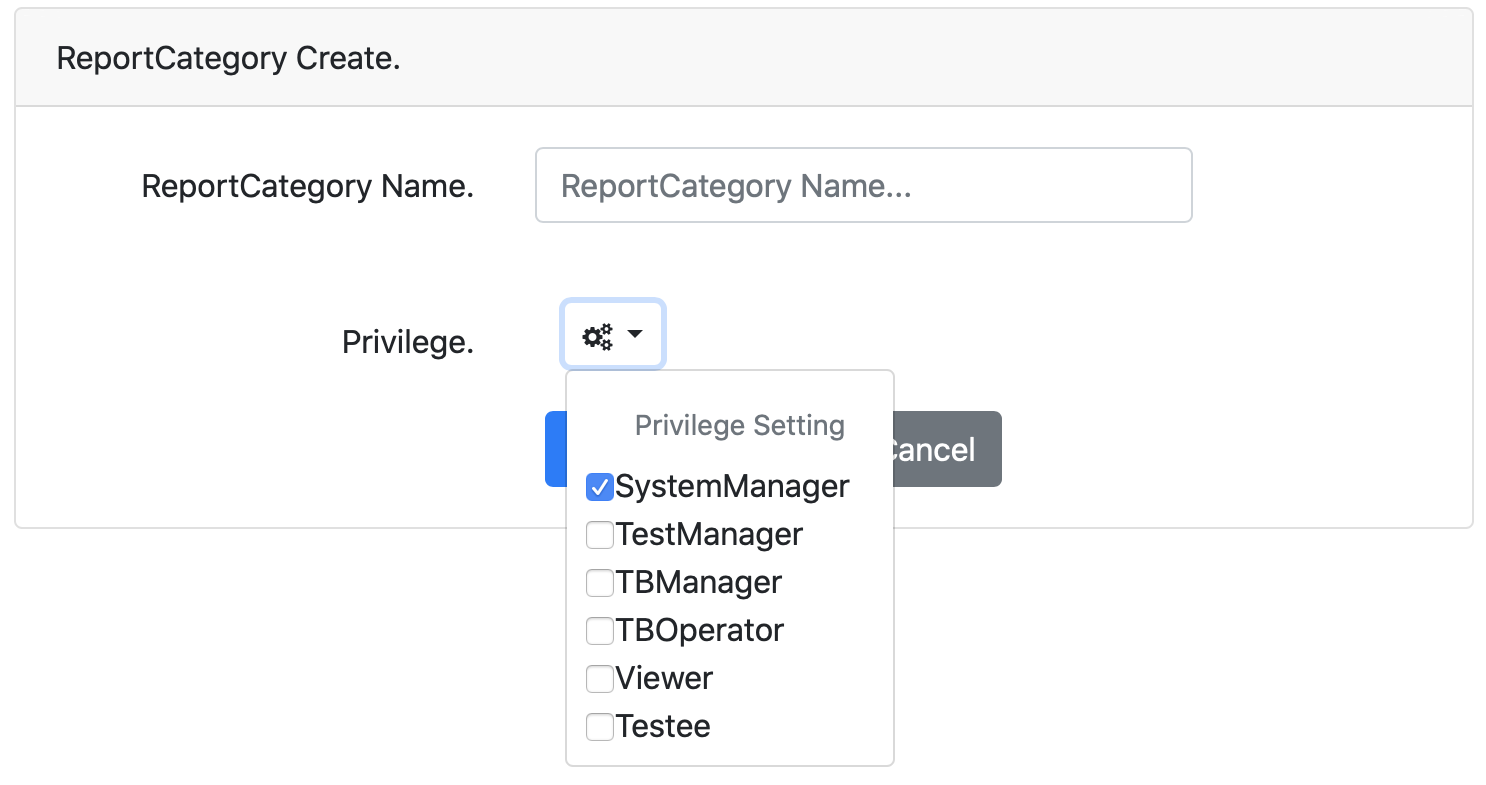
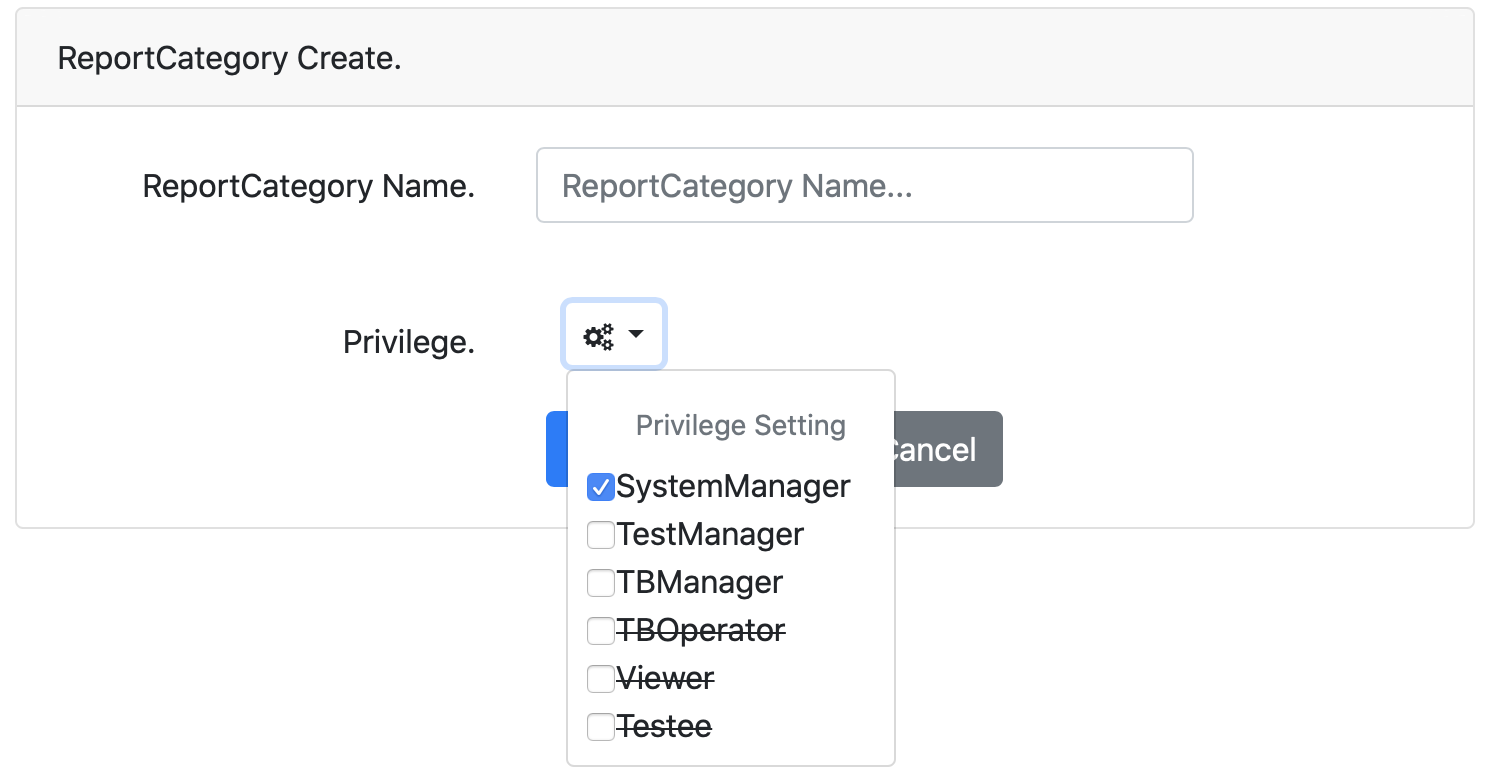
Mainly, modified the UI of some pages to keep the style consistency.
Finished the Operation Manual of System Manager.

diff --git a/templates/SystemDocument/OperationManual/OM_Report.html b/templates/SystemDocument/OperationManual/OM_Report.html
@@ -1,10 +1,94 @@
-<!DOCTYPE html>
-<html lang="en">
-<head>
-    <meta charset="UTF-8">
-    <title>Title</title>
-</head>
-<body>
+{% extends 'OperationManual_base.html' %}
 
-</body>
-</html>
+{% load static %}
+
+{% block content %}
+    <main id="om-content">
+        <div class="container">
+            <div class="row justify-content-center">
+                <div class="col-md-12 text-left">
+                    <h1>問題回報系統</h1>
+                    <p>
+                        <ul>
+                            <li>問題回報是為了讓使用者與管理員能有順暢的問題反映管道。</li>
+                            <li>使用者在使用本系統時所遇到的所有問題皆可透過問題回報系統來向管理人員或是開發人員來做反應，以達到更好的系統體驗。</li>
+                        </ul>
+                    </p>
+
+                    <h3>使用者問題回報</h3>
+                    <img src="{% static '/images/om/om-report01.png' %}" width="30%">
+                    <img src="{% static '/images/om/om-report02.png' %}" width="40%">
+                    <p>
+                        <ul>
+                            <li>可由<a href="{% url 'OM_User' %}">一般使用者</a>功能表或是進入個人資料頁面，左方導覽列的「Report」頁面中的「新增回報」按鈕來進行問題回報。</li>
+                        </ul>
+                    </p>
+
+                    <h3>問題回報</h3>
+                    <img src="{% static '/images/om/om-report03.png' %}" width="40%">
+                    <p>
+                        <ul>
+                            <li>選擇「Report Category.」及填寫「Supplement Note.」後即可送出。</li>
+                            <li>完成回報後，使用者可在左方導覽列的「Report」去查看自己所做的所有問題回報。</li>
+                        </ul>
+                    </p>
+                    <p class="mark">
+                        <strong>Tip.</strong><br>
+                        １.Report Category. 只做了大致上的歸類，若當中沒有符合您所遇到的狀況類別，請選擇「其他」。<br>
+                        ２.Supplement Note. 為補充說明，請多加敘述您在操作本系統時所遇到的問題，讓管理員能更有效地為您解決問題。<br>
+                    </p>
+
+                    <hr>
+
+                    <h1>問題回報處理</h1>
+                    <p>
+                        <ul>
+                            <li>經由使用者對於所遇到問題所做的問題回報，應有相關負責的權限來進行處理，故有設計問題類別的責任歸屬。
+                                請參閱<a href="{% url 'OM_SystemManager' %}">系統管理員</a>的<code>ReportCategory List</code>，其中有對於問題類別進一步的相關說明。</li>
+                        </ul>
+                    </p>
+                    <img src="{% static '/images/om/om-report04.png' %}" width="20%">
+                    <p>
+                        <ul>
+                            <li>若有使用者進行問題回報，而該回報類別屬於某一個權限的管理員，則會有 <label class="notification-badge">1</label> 的標示，
+                                用來提醒該管理員有多少個問題回報尚未讀取。</li>
+                        </ul>
+                    </p>
+                    <img src="{% static '/images/om/om-report05.png' %}" width="60%">
+                    <p>
+                        <ul>
+                            <li>若尚未讀取該問題回報，該欄位會顏色相對較深，若已讀則較淡。</li>
+                            <li>點擊該欄位則可檢視及回覆使用者所提出的問題。</li>
+                        </ul>
+                    </p>
+                    <img src="{% static '/images/om/om-report06.png' %}" width="60%">
+                    <p>
+                        <ul>
+                            <li>左邊區塊是顯示使用者問題回報的相關資訊</li>
+                            <li>右邊區塊是管理員與使用者的對話框，在下方輸入框輸入所要回覆的內容，點擊「回覆」按鈕即可回覆使用者。</li>
+                            <img src="{% static '/images/om/om-report07.png' %}" width="60%">
+                            <li>若管理員已回覆使用者的問題回報，則在使用者的頁面會看到「Report」的旁邊有 <label class="notification-badge">1</label> 的標示；而已回覆的問題回報也會與其他欄位有不同的顏色區隔。</li>
+                            <li>若管理員認為本次的問題回報是簡已處理完成，即可點擊「關閉」按鈕來結束本次的問題回報。本次回報也會更改狀態為<code>Solved</code>。</li>
+                            <img src="{% static '/images/om/om-report08.png' %}" width="60%">
+                            <li>若本次問題回報被管理員「Close」的話，代表本次回報已處理完成，使用者也無法繼續回覆。</li>
+                        </ul>
+                    </p>
+
+
+
+                    <hr class="featurette-divider">
+                </div>
+            </div>
+        </div>
+    </main>
+    <style>
+        .notification-badge{
+            width: 25px;
+            height: 25px;
+            background-color: red;
+            border-radius: 24px;
+            color: white;
+            text-align: center;
+        }
+    </style>
+{% endblock %}

diff --git a/templates/SystemDocument/OperationManual/OM_SystemManager.html b/templates/SystemDocument/OperationManual/OM_SystemManager.html
@@ -27,7 +27,7 @@
                     <img src="{% static '/images/om/om-sm02.png' %}" width="60%">
                     <p>
                         <ul>
-                            <li>表格內主要顯示使用者的「帳號」、「姓名」、「身份」、「權限」、「最近登入時間」。</li>
+                            <li>表格內主要顯示使用者的「Account.」、「Name.」、「Identity.」、「Privilege.」、「Last Login.」。</li>
                             <li>
                                 身份區分為：
                                 <ul>
@@ -47,7 +47,7 @@
                                     <li><a href="{% url 'OM_Testee'%}">Testee</a>：受測者</li>
                                 </ul>
                             </li>
-                            <li>「搜尋」功能列：可進行「學號/姓名」、「科系」、「中隊」、「年班」的條件式搜尋。</li>
+                            <li>「搜尋」功能列：可進行「Account./Name.」、「Department.」、「Squadron.」、「Grade.」的條件式搜尋。</li>
                             <li>「新增使用者」：可進行使用者的新增。</li>
                         </ul>
                     </p>
@@ -66,8 +66,8 @@
                     <p>
                         <ul>
                             <li>此圖以身份為「Student」的使用者為例，若身份為非「Student」之使用者，則不會有右邊學生基本資料可進行編輯。</li>
-                            <li>系統管理員可編輯使用者的「帳號」、「姓名」、「Email」、「性別」、「身份」、「權限」。</li>
-                            <li>若該使用者擁有「Student」，即可編輯「學號」、「科系」、「中隊」、「年班」。</li>
+                            <li>系統管理員可編輯使用者的「Register ID.」、「Name.」、「Email.」、「Gender.」、「Identity.」、「Privilege.」。</li>
+                            <li>若該使用者擁有「Student」，即可編輯「Student ID.」、「Department.」、「Squadron.」、「Grade.」。</li>
                         </ul>
                     </p>
 
@@ -75,8 +75,8 @@
                     <img src="{% static '/images/om/om-sm03.png' %}" width="70%">
                     <p>
                         <ul>
-                            <li>左方表格進行使用者基本資料的填寫。需輸入「帳號」、選擇「身份」及權限設置。</li>
-                            <li>若「身份」選擇<code>Student</code>，則右邊的表格需填寫學生相關資料。需輸入「學號」，其餘「科系」、「中隊」、「年班」，可選擇填寫或不填寫。</li>
+                            <li>左方表格進行使用者基本資料的填寫。需輸入「Reg ID.」、選擇「Identity.」及權限設置。</li>
+                            <li>若「身份」選擇<code>Student</code>，則右邊的表格需填寫學生相關資料。需輸入「Student ID.」，其餘「Department.」、「Squadron.」、「Grade.」，可選擇填寫或不填寫。</li>
                             <li>欲一次性新增多個使用者可點擊「<code>Multiple Creation？</code>」的連結。</li>
                         </ul>
                     </p>
@@ -186,6 +186,7 @@
                     <p>
                         <ul>
                             <li>更改所要編輯的問題類別名稱及所負責的單位後即可提交更改。</li>
+                            <li>無論在「新增問題類別」或是「編輯問題類別」，除<a href="{% url 'OM_SystemManager' %}">系統管理員</a>、<a href="{% url 'OM_TestManager' %}">考試管理員</a>、<a href="{% url 'OM_TBManager' %}">題庫管理員</a>外其餘權限皆不得設置為問題類別的負責單位。</li>
                             <li style="color: red">若無必要性，不建議做更改。</li>
                         </ul>
                     </p>
@@ -205,16 +206,4 @@
             </div>
         </div>
     </main>
-    <style>
-        .mark{
-            background-color: rgb(248, 248, 248);
-
-            border-left-style: solid;
-            border-left-width: 4px;
-            border-left-color: rgb(200, 200, 200);
-            opacity: 0.6;
-
-            padding-left: 10px;
-        }
-    </style>
 {% endblock %}

diff --git a/templates/SystemDocument/OperationManual/OM_User.html b/templates/SystemDocument/OperationManual/OM_User.html
@@ -48,8 +48,8 @@
                     <h3>檢視個人資料</h3>
                     <p>
                         <ul>
-                            <li>於一般使用者功能表點擊「User Profile」，可以查看個人資料，包括：帳號、姓名、Email、性別、身分、權限。</li>
-                            <li>若使用者身份為「Student」，則會多顯示學生基本資料，其中有：學號、科系、中隊、年班。</li>
+                            <li>於一般使用者功能表點擊「User Profile」，可以查看個人資料，包括：「Reg ID.」、「Name.」、「Email.」、「Gender.」、「Identity.」、「Privilege.」。</li>
+                            <li>若使用者身份為「Student」，則會多顯示學生基本資料，其中有：「Student ID.」、「Department.」、「Squadron.」、「Grade.」。</li>
                             <img src="{% static '/images/om/om-user04.png' %}" width="45%" height="45%">
                             <img src="{% static '/images/om/om-user05.png' %}" width="45%" height="45%">
                         </ul>
@@ -60,8 +60,8 @@
                     <h3>更新個人資料</h3>
                     <p>
                         <ul>
-                            <li>於一般使用者功能表點擊「Profile Update」，可以個人資料的更改，可更改項目有：姓名、性別、個人簡介及個人頭像。</li>
-                            <li>若使用者身份為「Student」，則會多顯示學生基本資料，可更改項目有：科系、中隊、年班。</li>
+                            <li>於一般使用者功能表點擊「Profile Update」，可以個人資料的更改，可更改項目有：「Name.」、「Gender.」、「Personal Photo.」及「Personal Introduction.」。</li>
+                            <li>若使用者身份為「Student」，則會多顯示學生基本資料，可更改項目有：「Department.」、「Squadron.」、「Grade.」。</li>
                             <img src="{% static '/images/om/om-user06.png' %}" width="45%" height="45%">
                             <img src="{% static '/images/om/om-user07.png' %}" width="45%" height="45%">
                             <li>完成更改後，點擊「Update」即可完成更新。</li>
@@ -94,11 +94,10 @@
 
                     <hr>
 
-                    <h3>問題回報</h3>
+                    <h4>問題列表</h4>
                     <p>
                         <ul>
-                            <li>於一般使用者功能表點擊「Report」，可進行在系統操作過程中所遇到的問題進行回報。</li>
-                            <img src="{% static '/images/om/om-user10.png' %}" width="45%" height="45%">
+                            <li>請參閱<a href="{% url 'OM_Report' %}">問題回報</a></li>
                         </ul>
                     </p>
 

diff --git a/templates/report/responsible_report_list.html b/templates/report/responsible_report_list.html
@@ -27,11 +27,11 @@
                             <tbody>
                                 {% if reports %}
                                     {% for report in reports %}
-                                        <tr {% if report.staff_notification %}class="table-active"{% endif %} onclick="window.location.href='{% url 'report_reply' report.id %}'" style="cursor: pointer">
+                                        <tr {% if report.staff_notification %}style="opacity: 1" {% endif %} onclick="window.location.href='{% url 'report_reply' report.id %}'">
                                             <td class="text-center" data-title="Category">{{ report.category }}</td>
                                             <td class="text-center" data-title="Content">{{ report.supplement_note|safe|summary:51 }}</td>
                                             <td class="text-center" data-title="State">{{ report.state|readable_report_state }}</td>
-                                            <td class="text-center" data-title="Time">{{ report.created_time|date:"H:i, m/d/Y" }}</td>
+                                            <td class="text-center" data-title="Time">{{ report.created_time|date:"Y年m月d日, h時i分" }}</td>
                                         </tr>
                                     {% endfor %}
                                 {% else %}
@@ -47,7 +47,11 @@
 
     <style>
         .responsible-report-list .container{
-            height: 70%;
+            height: 70vh;
+        }
+        .responsible-report-list .container table > tbody > tr{
+            cursor: pointer;
+            opacity: 0.6;
         }
     </style>
 {% endblock %}

diff --git a/templates/report/report_category_create.html b/templates/report/report_category_create.html
@@ -101,7 +101,11 @@
                                                         <ul class="dropdown-menu">
                                                             <li class="dropdown-header">Privilege Setting</li>
                                                             {% for privilege in privileges %}
-                                                                <li><input type="checkbox" id="{{ privilege.value.0 }}" name="{{ privilege }}" onclick="privilege_not_empty()" {% if privilege == privilege.SystemManager %} checked {% endif %}>{{ privilege.value.1 }}</li>
+                                                                {% if forloop.counter <= 3 %}
+                                                                    <li><input type="checkbox" id="{{ privilege.value.0 }}" name="{{ privilege }}" onclick="privilege_not_empty()" {% if privilege == privilege.SystemManager %} checked {% endif %}>{{ privilege.value.1 }}</li>
+                                                                {% else %}
+                                                                    <li><strike><input type="checkbox" id="{{ privilege.value.0 }}" name="{{ privilege }}" onclick="this.checked=!this.checked;">{{ privilege.value.1 }}</strike></li>
+                                                                {% endif %}
                                                             {% endfor %}
                                                         </ul>
                                                         <label class="privilege_invalid" id="privilege_invalid"></label>

diff --git a/templates/report/report_category_edit.html b/templates/report/report_category_edit.html
@@ -146,7 +146,11 @@
                                                         <ul class="dropdown-menu">
                                                             <li class="dropdown-header">Privilege Setting</li>
                                                             {% for privilege in privileges %}
-                                                                <li><input type="checkbox" id="{{ privilege.value.0 }}" name="{{ privilege }}" onclick="privilege_change()" {% if category|belongs_to:privilege %} checked {% endif %}>{{ privilege.value.1 }}</li>
+                                                                {% if forloop.counter <= 3 %}
+                                                                    <li><input type="checkbox" id="{{ privilege.value.0 }}" name="{{ privilege }}" onclick="privilege_change()" {% if category|belongs_to:privilege %} checked {% endif %}>{{ privilege.value.1 }}</li>
+                                                                {% else %}
+                                                                    <li><strike><input type="checkbox" id="{{ privilege.value.0 }}" name="{{ privilege }}" onclick="this.checked=!this.checked;">{{ privilege.value.1 }}</strike></li>
+                                                                {% endif %}
                                                             {% endfor %}
                                                         </ul>
                                                         <label class="privilege_invalid" id="privilege_invalid"></label>

diff --git a/templates/report/reply.html b/templates/report/reply.html
@@ -37,7 +37,7 @@
                     </div>
 
                     <div class="col-lg-7">
-                        <div class="card" style="height: 70vh">
+                        <div class="card" style="height: 75vh">
                             <div class="card-header">Reply</div>
 
                             <div id="reply-content" class="card-body">
@@ -68,7 +68,7 @@
 
                                     <div class="text-right">
                                         <button type="submit" class="btn btn-primary" {% if replying_report.state == 3 %}disabled{% endif %}>Comment</button>
-                                        <button type="button" class="btn btn-secondary" onclick="self.location=document.referrer;">Cancel</button>
+                                        <button type="button" class="btn btn-secondary" onclick="history.go(-1)">Cancel</button>
                                         {% if replying_report.state != 3 %}
                                             <button type="button" class="btn btn-success" onclick="window.location.href='{% url 'report_done' replying_report.id %}'">Close</button>
                                         {% endif %}

diff --git a/templates/OperationManual_base.html b/templates/OperationManual_base.html
@@ -69,11 +69,11 @@
 
                                         <div class="dropdown-divider custom"></div>
 
-                                        <button onclick="window.location.href='{% url 'OM_Report' %}'">Report</button>
+                                        <button onclick="window.location.href='{% url 'OM_User' %}'">User</button>
 
                                         <div class="dropdown-divider custom"></div>
 
-                                        <button onclick="window.location.href='{% url 'OM_User' %}'">User</button>
+                                        <button onclick="window.location.href='{% url 'OM_Report' %}'">Report</button>
 
                                         <div class="dropdown-divider custom"></div>
 
@@ -134,6 +134,17 @@
 
         .Operation-Manual-base .container .row #om-content ul > li{
             padding: 6px;
+        }
+
+        .mark{
+            background-color: rgb(248, 248, 248);
+
+            border-left-style: solid;
+            border-left-width: 4px;
+            border-left-color: rgb(200, 200, 200);
+            opacity: 0.6;
+
+            padding-left: 10px;
         }
     </style>
 </body>

diff --git a/templates/registration/report_detail.html b/templates/registration/report_detail.html
@@ -38,7 +38,7 @@
                     </div>
 
                     <div class="col-lg-7">
-                        <div class="card" style="height: 700px">
+                        <div class="card" style="height: 75vh">
                             <div class="card-header">Reply</div>
 
                             <div id="reply-content" class="card-body">
@@ -68,7 +68,7 @@
                                     <textarea class="form-control" name="reply" rows="4" placeholder="Reply..." {% if viewed_report.state == 3 %}disabled{% endif %}></textarea>
 
                                     <button type="submit" class="btn btn-primary" {% if viewed_report.state == 3 %}disabled{% endif %}>Comment</button>
-                                    <button type="button" class="btn btn-secondary" onclick="self.location=document.referrer;">Cancel</button>
+                                    <button type="button" class="btn btn-secondary" onclick="history.go(-1)">Cancel</button>
                                 </form>
                             </div>
                         </div>

diff --git a/templates/user/create_user.html b/templates/user/create_user.html
@@ -214,7 +214,7 @@
                         <div class="card-header">Create Student.</div>
                         <div class="card-body">
                             <div class="form-group row">
-                                <label for="reg_id" class="col-md-4 col-form-label text-md-right">Student ID</label>
+                                <label for="reg_id" class="col-md-4 col-form-label text-md-right">Student ID./label>
                                 <div class="col-md-6">
                                     <input class="form-control" type="text" id="stu_id" name="stu_id" placeholder="Student ID..." onkeyup="unique_stuID({{ stu_ids }}, this)" disabled required>
                                     <label class="unique_stu_id" id="invalid_stu_id" style="display: none"></label>

diff --git a/templates/SystemDocument/About.html b/templates/SystemDocument/About.html
@@ -73,11 +73,11 @@
 
                             <div class="dropdown-divider custom"></div>
 
-                            <button onclick="window.location.href='{% url 'OM_Report' %}'">Report</button>
+                            <button onclick="window.location.href='{% url 'OM_User' %}'">User</button>
 
                             <div class="dropdown-divider custom"></div>
 
-                            <button onclick="window.location.href='{% url 'OM_User' %}'">User</button>
+                            <button onclick="window.location.href='{% url 'OM_Report' %}'">Report</button>
 
                             <div class="dropdown-divider custom"></div>
 

diff --git a/templates/exam/exam_create.html b/templates/exam/exam_create.html
@@ -198,7 +198,7 @@
                                 </p>
 
                                 <h5 class="card-subtitle mb-2 text-muted">
-                                    Duration.<span id="duration_invalid" class="duration_invalid"></span>
+                                    Duration.(min)<span id="duration_invalid" class="duration_invalid"></span>
                                 </h5>
                                 <p class="card-text">
 {#                                    <input class="form-control" type="text" name="duration" onkeyup="duration_valid(this)" value="40" required>#}
